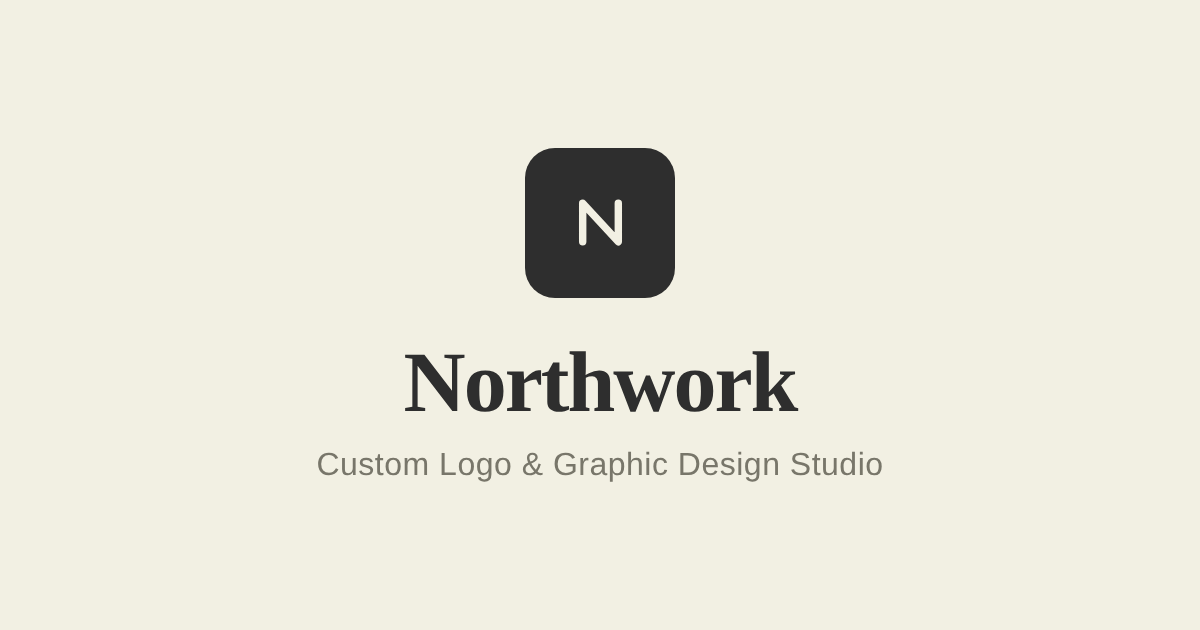
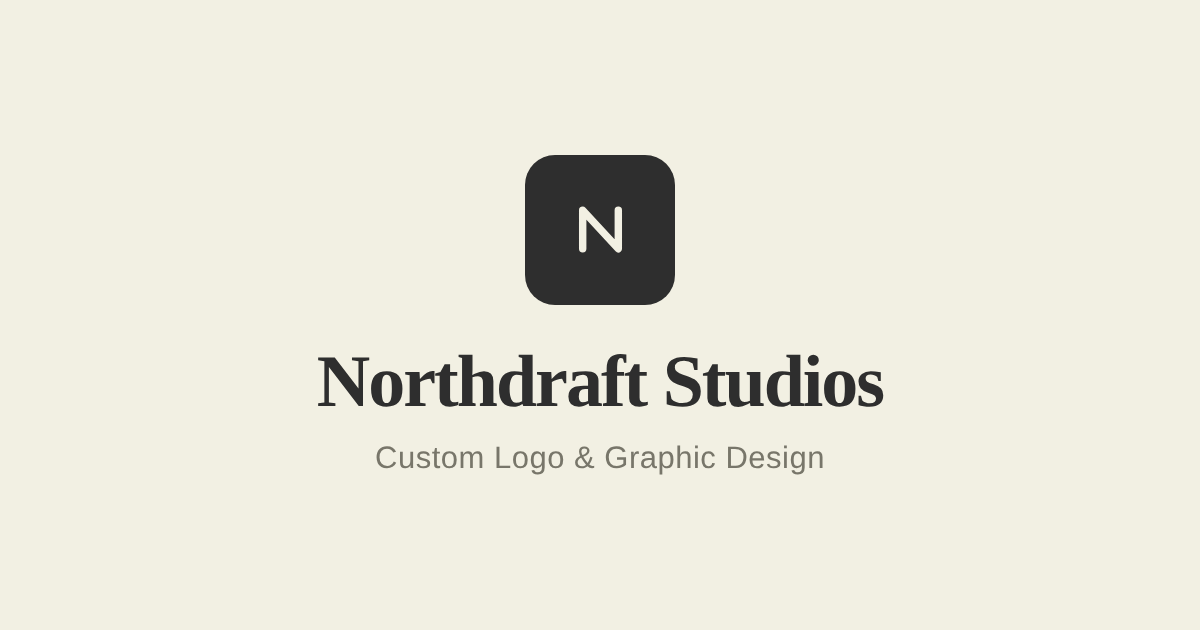
Rebrand to Northdraft Studios
Rename Northwork -> Northdraft Studios across wordmark, copy, title,
meta, structured data, FAQ, and regenerate OG/apple-touch icons. Domain,
email, and Dribbble handle still on northwork.app pending new ones.

Claude-Session: https://claude.ai/code/session_01RYP3D5RfThj8YCt2bpgM7M

diff --git a/index.html b/index.html
@@ -3,8 +3,8 @@
   <head>
     <meta charset="UTF-8" />
     <meta name="viewport" content="width=device-width, initial-scale=1.0" />
-    <title>Northwork — Custom Logo &amp; Graphic Design Studio</title>
-    <meta name="description" content="Northwork is an online graphic design studio specializing in custom logo design, plus posters, flyers, presentations, business cards, and websites — professional quality at an affordable price." />
+    <title>Northdraft Studios — Custom Logo &amp; Graphic Design Studio</title>
+    <meta name="description" content="Northdraft Studios is an online graphic design studio specializing in custom logo design, plus posters, flyers, presentations, business cards, and websites — professional quality at an affordable price." />
     <link rel="canonical" href="https://designs.northwork.app/" />
     <link rel="icon" type="image/svg+xml" href="/logo.svg" />
     <link rel="apple-touch-icon" href="/apple-touch-icon.png" />
@@ -16,11 +16,11 @@
     <!-- Open Graph / social share -->
     <meta property="og:type" content="website" />
     <meta property="og:url" content="https://designs.northwork.app/" />
-    <meta property="og:title" content="Northwork — Graphic Design Studio" />
+    <meta property="og:title" content="Northdraft Studios — Graphic Design Studio" />
     <meta property="og:description" content="A design studio crafting logos, print, presentations, and websites — built with precision, delivered at a price that makes sense." />
     <meta property="og:image" content="https://designs.northwork.app/og-image.png" />
     <meta name="twitter:card" content="summary_large_image" />
-    <meta name="twitter:title" content="Northwork — Graphic Design Studio" />
+    <meta name="twitter:title" content="Northdraft Studios — Graphic Design Studio" />
     <meta name="twitter:description" content="Logos, print, presentations, and websites — designed with precision." />
     <meta name="twitter:image" content="https://designs.northwork.app/og-image.png" />
 
@@ -29,7 +29,7 @@
     {
       "@context": "https://schema.org",
       "@type": "ProfessionalService",
-      "name": "Northwork",
+      "name": "Northdraft Studios",
       "description": "Online graphic design studio specializing in custom logo design, plus posters, flyers, presentations, business cards, stickers, and websites.",
       "url": "https://designs.northwork.app/",
       "logo": "https://designs.northwork.app/logo.svg",

diff --git a/src/App.jsx b/src/App.jsx
@@ -34,7 +34,7 @@ const GALLERY = [];
 
 const FAQS = [
   {
-    q: 'What services does Northwork offer?',
+    q: 'What services does Northdraft Studios offer?',
     a: "We're an online graphic design studio. Our specialties include custom logo and icon design, posters and flyers, presentations, business cards and stickers, and full websites. If you need something design-related that isn't listed, just ask.",
   },
   {
@@ -114,7 +114,7 @@ function Nav() {
       <div className="nav-inner">
         <a href="#top" className="brand">
           <img src="/logo.svg" alt="" className="brand-logo" />
-          Northwork<span>Designs</span>
+          Northdraft<span>Studios</span>
         </a>
         <nav className="nav-links">
           <a href="#services">Services</a>
@@ -160,7 +160,7 @@ function Hero() {
   return (
     <section className="hero" id="top">
       <div className="hero-content">
-        <p className="eyebrow reveal in">Northwork</p>
+        <p className="eyebrow reveal in">Northdraft Studios</p>
         <HeroHeadline />
         <p className="hero-sub reveal in" style={{ transitionDelay: '520ms' }}>
           An online graphic design studio specializing in custom logo design — plus print,
@@ -453,19 +453,19 @@ function Footer() {
       <div className="footer-inner">
         <span className="brand brand-footer">
           <img src="/logo.svg" alt="" className="brand-logo" />
-          Northwork<span>Designs</span>
+          Northdraft<span>Studios</span>
         </span>
         <a
           className="social"
           href="https://dribbble.com/northwork"
           target="_blank"
           rel="noopener noreferrer"
-          aria-label="Northwork on Dribbble"
+          aria-label="Northdraft Studios on Dribbble"
         >
           <DribbbleIcon size={22} />
           <span>Dribbble</span>
         </a>
-        <p>© {new Date().getFullYear()} Northwork. All rights reserved.</p>
+        <p>© {new Date().getFullYear()} Northdraft Studios. All rights reserved.</p>
       </div>
     </footer>
   );

diff --git a/README.md b/README.md
@@ -1,6 +1,6 @@
-# Northwork
+# Northdraft Studios
 
-The official website for **Northwork** — a graphic design studio
+The official website for **Northdraft Studios** — a graphic design studio
 offering logos, print, presentations, websites, and physical products.
 
 A clean, editorial single-page site built with **React + Vite**,
@@ -20,7 +20,7 @@ deployed on **Cloudflare Pages** at **designs.northwork.app**.
 | `src/main.jsx` | App bootstrap |
 | `src/App.jsx` | Page sections (Nav, Hero, Services, Products, Reviews, FAQ, Contact, Footer) |
 | `src/styles.css` | Styling and responsive layout |
-| `public/logo.svg` | Brand logo + favicon (placeholder — swap for the real Northwork logo) |
+| `public/logo.svg` | Brand logo + favicon (placeholder — swap for the real Northdraft Studios logo) |
 | `public/_redirects` | Cloudflare Pages SPA fallback |
 
 ## Local development
